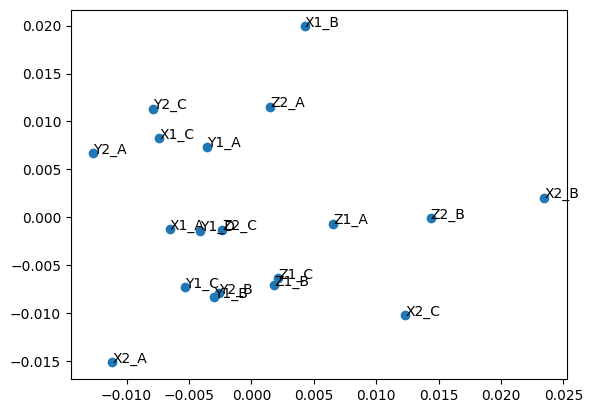
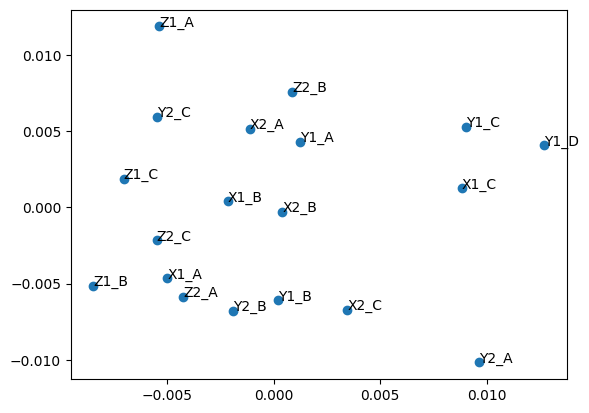
added changes for embeddings similarities

diff --git a/src/gensim_fasttext/embeddings_generator.py b/src/gensim_fasttext/embeddings_generator.py
@@ -4,7 +4,10 @@ import glob
 
 from gensim.models import Word2Vec
 from sklearn.decomposition import PCA
-from matplotlib import pyplot
+import matplotlib.pyplot as plt
+
+import numpy as np
+from sklearn.metrics.pairwise import cosine_similarity
 
 
 def load_data(input_txt_filepath):
@@ -26,7 +29,7 @@ def load_data(input_txt_filepath):
 
 
 def get_model(samples):
-    return Word2Vec(sentences=samples, min_count=1, window=5, size=100)
+    return Word2Vec(sentences=samples, min_count=1, window=3, size=200)
 
 
 def get_word_embeddings(input_txt_filepath):
@@ -43,6 +46,57 @@ def get_word_embeddings(input_txt_filepath):
     return vocab, word_embeddings, corpus, activities
 
 
+def plot_vector_similarity(vocab, embeddings):
+
+    vocab_len = len(vocab)
+    cos_sims = np.zeros(shape=(vocab_len, vocab_len))
+    for vec_1 in range(vocab_len):
+        x = np.array(embeddings[vec_1]).reshape(1, -1)
+        for vec_2 in range(vocab_len):
+            cos_sims[vec_1][vec_2] = cosine_similarity(
+                x, np.array(embeddings[vec_2]).reshape(1, -1))
+
+    fig, ax = plt.subplots()
+    im = ax.imshow(cos_sims)
+
+    ax.set_xticks(np.arange(vocab_len))
+    ax.set_yticks(np.arange(vocab_len))
+
+    ax.set_xticklabels(vocab)
+    ax.set_yticklabels(vocab)
+
+    plt.setp(ax.get_xticklabels(), rotation=45, ha="right",
+             rotation_mode="anchor")
+
+    for i in range(vocab_len):
+        for j in range(vocab_len):
+            text = ax.text(j, i, str(cos_sims[i, j] * 100)[:4],
+                           ha="center", va="center", color="w")
+
+    ax.set_title("Cosine similarities of word2vec embeddings")
+    fig.tight_layout()
+    plt.savefig('output/' +
+                'embeddings_similarities.png', bbox_inches='tight')
+    plt.show()
+
+
+def plot_pca(vocab):
+
+    # fit a 2d PCA model to the vectors
+    X = model[vocab]
+    pca = PCA(n_components=2)
+    result = pca.fit_transform(X)
+    # create a scatter plot of the projection
+    plt.scatter(result[:, 0], result[:, 1])
+    words = list(vocab)
+    for i, word in enumerate(words):
+        plt.annotate(word, xy=(result[i, 0], result[i, 1]))
+
+    plt.savefig('output/' +
+                'embeddings_pca_results.png', bbox_inches='tight')
+    plt.show()
+
+
 if __name__ == "__main__":
 
     # _manual testing purpose
@@ -52,21 +106,10 @@ if __name__ == "__main__":
     model = get_model(samples)
     print(model)
 
-    vocab_glda = model.wv.vocab
-    print(list(vocab_glda.keys()))
+    vocab = list(model.wv.vocab.keys())
+    # print(vocab)
+    # print(model.wv.vectors)
 
-    print(model.wv.vectors)
-
-    # fit a 2d PCA model to the vectors
-    X = model[model.wv.vocab]
-    pca = PCA(n_components=2)
-    result = pca.fit_transform(X)
-    # create a scatter plot of the projection
-    pyplot.scatter(result[:, 0], result[:, 1])
-    words = list(model.wv.vocab)
-    for i, word in enumerate(words):
-        pyplot.annotate(word, xy=(result[i, 0], result[i, 1]))
-
-    pyplot.savefig('output/' +
-                   'embeddings_pca_results.png', bbox_inches='tight')
-    pyplot.show()
+    plot_pca(model.wv.vocab)
+    plt.rcParams["figure.figsize"] = [16, 9]
+    plot_vector_similarity(vocab, model.wv.vectors)
